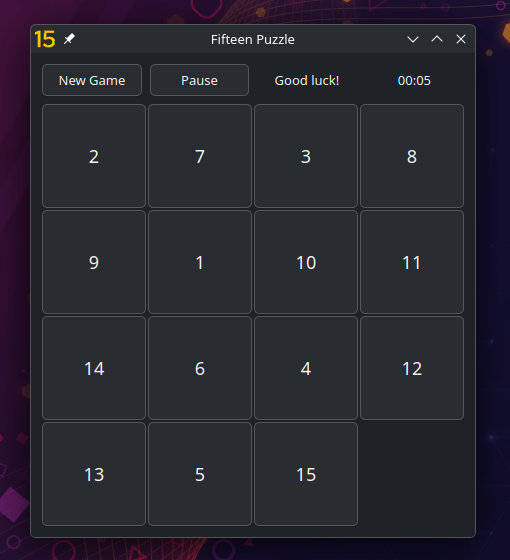
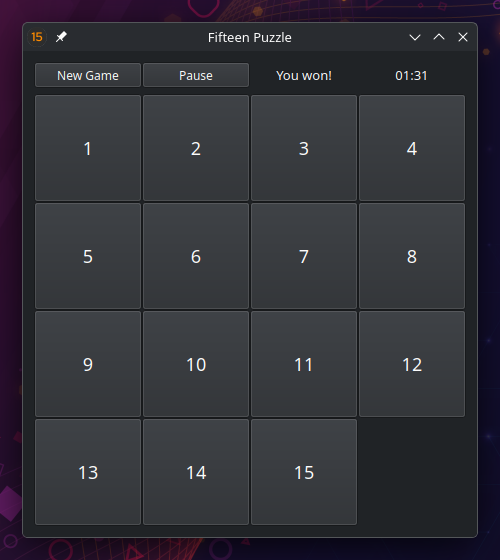
Update styles

diff --git a/src/view.h b/src/view.h
@@ -39,9 +39,10 @@ namespace Fifteen {
         std::array<std::array<QPushButton*, SIZE>, SIZE> buttons{};
 
         View(int argc, char *argv[]) : app(argc, argv) {
-            window.setWindowTitle("Fifteen Puzzle");
-            window.setWindowIcon(QIcon("../assets/15.png"));
+            QApplication::setStyle("Fusion");
 
+            window.setWindowTitle("Fifteen Puzzle");
+            window.setWindowIcon(QIcon(":/15.png"));
 
             mainLayout.addLayout(&menuLayout, 0, 0);
             mainLayout.addLayout(&fieldLayout, 1, 0);
@@ -52,10 +53,20 @@ namespace Fifteen {
             menuLayout.addWidget(&pauseButton, 0, 1);
             menuLayout.addWidget(&statusLabel, 0, 2);
             menuLayout.addWidget(&timeLabel, 0, 3);
+            menuLayout.setSpacing(0);
+
+
+            newGameButton.setSizePolicy(QSizePolicy::Expanding, QSizePolicy::Expanding);
+            newGameButton.setStyleSheet("margin: 0; padding: 0; font-size: 12px; min-width: 32px; min-height: 24px; max-height: 32px");
+            pauseButton.setSizePolicy(QSizePolicy::Expanding, QSizePolicy::Expanding);
+            pauseButton.setStyleSheet("margin: 0; padding: 0; font-size: 12px; min-width: 32px; min-height: 24px; max-height: 32px");
+
+            statusLabel.setAlignment(Qt::AlignCenter);
+            statusLabel.setSizePolicy(QSizePolicy::Expanding, QSizePolicy::Fixed);
+            timeLabel.setAlignment(Qt::AlignCenter);
+            timeLabel.setSizePolicy(QSizePolicy::Expanding, QSizePolicy::Fixed);
 
             newGameButton.setText("New Game");
-            statusLabel.setAlignment(Qt::AlignCenter);
-            timeLabel.setAlignment(Qt::AlignCenter);
             reset();
 
             fieldLayout.setContentsMargins(0, 0, 0, 0);
@@ -79,7 +90,7 @@ namespace Fifteen {
                 fieldLayout.setRowStretch(y, 1);
 
                 for (int x = 0; x < SIZE; x++) {
-                    QPushButton *button = new QPushButton(&window);
+                    auto *button = new QPushButton(&window);
                     button->setSizePolicy(QSizePolicy::Expanding, QSizePolicy::Expanding);
                     button->setStyleSheet("margin: 0; padding: auto; font-size: 18px; min-width: 32px; min-height: 32px");
                     buttons[y][x] = button;
@@ -121,8 +132,8 @@ namespace Fifteen {
 
         void updateTime() {
             const auto deltaTime = (accumulatedTime + elapsedTimer.elapsed()) / 1000;
-            const int minutes = deltaTime / 60;
-            const int seconds = deltaTime % 60;
+            const auto minutes = deltaTime / 60;
+            const auto seconds = deltaTime % 60;
             const QString timeStr = QString("%1:%2")
                     .arg(minutes, 2, 10, QChar('0'))
                     .arg(seconds, 2, 10, QChar('0'));
@@ -150,7 +161,7 @@ namespace Fifteen {
         int run(const Field &field) {
             drawField(field);
             window.show();
-            return app.exec();
+            return QApplication::exec();
         }
     };
 }
